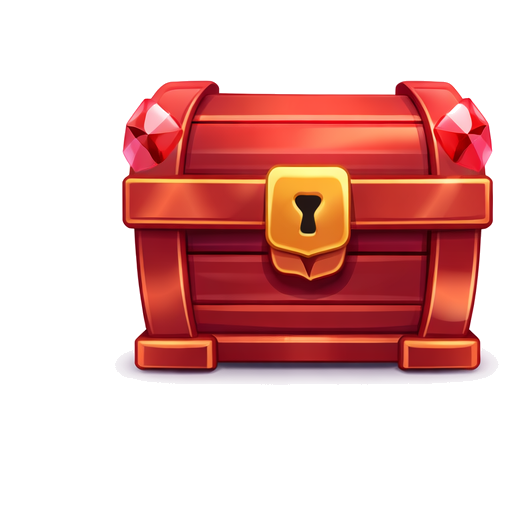
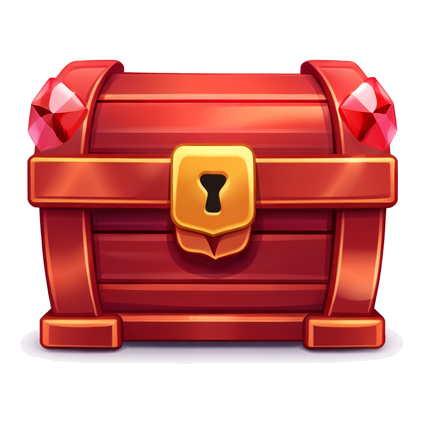
fix(matematik): normalisera kistbilder så de är rakt linjerade
PNG-filerna hade vilt varierande transparent kantzon (brons: left=119px,
guld: left=13px etc). Croppar nu bort all transparent padding och lägger
till exakt 20px uniform marginal på alla sidor – alla bilder är nu
centrerade på samma sätt och hamnar på en rak linje.

https://claude.ai/code/session_01CMFPzW4G3gBS6r5CvdAG5Q

diff --git a/matematik/src/components/KistorView.tsx b/matematik/src/components/KistorView.tsx
@@ -541,7 +541,7 @@ export default function KistorView() {
             {(() => {
               const imgStyle: React.CSSProperties = {
                 width: '26px', height: '26px',
-                objectFit: 'contain', objectPosition: 'left center', display: 'block',
+                objectFit: 'contain', objectPosition: 'center', display: 'block',
               };
               const cellStyle: React.CSSProperties = {
                 width: '30px', minWidth: '30px',
